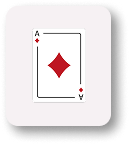
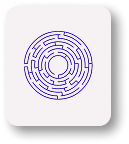
edit gaming theme

Changed region(s): [[0.186, 0.1944, 0.7442, 0.7222]]

diff --git a/src/style/themes/_codeVibe-theme.scss b/src/style/themes/_codeVibe-theme.scss
@@ -92,6 +92,16 @@
         }
     }
 
+    .card.matched::after {
+        content: "";
+        position: absolute;
+        inset: -4px;
+        border-radius: 5px;
+        border: 3px solid #4DD5BC;
+        box-shadow: 0 0 12px #4DD5BC;
+        animation: pulseMatch 0.6s ease-in-out;
+    }
+
     .card__face--back {
         background-image: url('../../../public/assets/img/Themes/codeVibes/CodeVibes_cardback.png');
         background-size: cover;
@@ -129,158 +139,6 @@
         }
     }
 }
-
-// .box {
-//     width: 100%;
-//     height: 100%;
-//     display: flex;
-//     justify-content: center;
-//     align-items: start;
-// }
-
-// .field {
-//     width: 100%;
-//     display: grid;
-//     place-content: center;
-//     gap: 12px;
-//     padding: 12px;
-//     justify-content: center;
-//     align-items: center;
-
-//     &.grid-16 {
-//         grid-template-columns: repeat(4, 1fr);
-//         width: 529px;
-//         height: 528px;
-//     }
-
-//     &.grid-24 {
-//         grid-template-columns: repeat(6, 1fr);
-//         width: 750px;
-//         height: 498px;
-//     }
-
-//     &.grid-32 {
-//         grid-template-columns: repeat(6, 1fr);
-//         width: 750px;
-//         height: 750px;
-//     }
-// }
-
-// .show {
-//     width: 687px;
-//     height: 100%;
-//     display: flex;
-//     align-items: center;
-//     justify-content: space-between;
-//     cursor: default;
-
-//     &__box {
-//         height: 100%;
-//         width: 100%;
-
-//         &--bg {
-//             background-color: #86E9D633;
-//             display: flex;
-//             justify-content: center;
-//             align-items: center;
-//             gap: 50px;
-//         }
-//     }
-
-//     &__card {
-//         display: flex;
-//         align-items: center;
-//         justify-content: center;
-//         gap: 8px;
-//         font-weight: 700;
-//         font-size: 24px;
-//         line-height: 100%;
-//         letter-spacing: 0%;
-
-//         &--blue {
-//             color: #2BB1FF;
-//         }
-
-//         &--orange {
-//             color: #F58E39;
-//         }
-
-//         img {
-//             height: 24px;
-//             width: 20px;
-//             object-fit: contain;
-//         }
-//     }
-
-//     &__current-player {
-//         display: flex;
-//         justify-content: end;
-//         align-items: end;
-//     }
-
-//     .current-player__box {
-//         display: flex;
-//         align-items: center;
-//         gap: 4px;
-
-//         & {
-//             font-size: 26px;
-//             line-height: 100%;
-//         }
-//     }
-// }
-
-// .blue-label {
-//     height: 24px;
-//     width: 29px;
-//     background-image: url('../../../public/assets/img/label_blue.png');
-//     background-repeat: no-repeat;
-//     background-size: cover;
-// }
-
-// .orange-label {
-//     height: 24px;
-//     width: 29px;
-//     background-image: url('../../../public/assets/img/label_orange.png');
-//     background-repeat: no-repeat;
-//     background-size: cover;
-// }
-
-// .exit_btn {
-//     background-image: url('./../../../public/assets/img/exit_btn.png');
-//     height: 62px;
-//     width: 207px;
-
-//     &:hover {
-//         background-image: url('./../../../public/assets/img/exit_btn-hover.png');
-//     }
-// }
-
-
-
-// .Overlay {
-//     position: absolute;
-//     top: 0;
-//     left: 0;
-//     height: 100%;
-//     width: 100%;
-//     background-color: rgba(0, 0, 0, 0.2);
-//     display: flex;
-//     align-items: center;
-//     justify-content: center;
-//     opacity: 0;
-//     pointer-events: none;
-
-//     &.open {
-//         @include mixin.fade-in;
-//         opacity: 1;
-//         pointer-events: all;
-//     }
-
-//     &.closing {
-//         @include mixin.fade-out;
-//     }
-// }
 
 // .PopUp {
 //     height: 270px;

diff --git a/src/style/themes/_gaming-theme.scss b/src/style/themes/_gaming-theme.scss
@@ -6,6 +6,123 @@
         padding: 40px 96px;
     }
 
+    header {
+        background-color: #FD96C933;
+        border-radius: 10px;
+        padding: 24px;
+        margin-bottom: 20px;
+    }
+
+    .playerdisplay__scoreboard {
+        padding: 0 16px;
+        background-color: #FFFFFF;
+        border-radius: 10px;
+        display: flex;
+        justify-content: space-between;
+        gap: 40px;
+
+        &--revers {
+            flex-direction: row-reverse;
+        }
+    }
+
+    .playerdisplay__player {
+        display: flex;
+        align-items: center;
+        width: max-content;
+        height: 38px;
+        gap: 8px;
+    }
+
+    .playerdisplay__icon--blue {
+        background-image: url('../../../public/assets/img/Themes/gaming/chess-blue.png');
+        height: 28px;
+        width: 22px;
+        background-size: cover;
+        background-repeat: no-repeat;
+    }
+
+    .playerdisplay__icon--orange {
+        background-image: url('../../../public/assets/img/Themes/gaming/chess-orange.png');
+        height: 28px;
+        width: 22px;
+        background-size: cover;
+        background-repeat: no-repeat;
+    }
+
+    .playerdisplay__number {
+        font-size: 30px;
+        font-weight: 700;
+        line-height: 100%;
+        font-family: 'Orbitron';
+    }
+
+    .currentplayer {
+        display: flex;
+        align-items: center;
+        gap: 18px;
+        height: 40px;
+
+        &__text {
+            font-size: 32px;
+            font-weight: 700;
+            line-height: 100%;
+            font-family: 'Orbitron';
+            letter-spacing: 7%;
+        }
+
+        .blue-label {
+            display: flex;
+            align-items: center;
+            justify-content: center;
+            height: 40px;
+            width: 41px;
+            background-color: #1FAAFC;
+            border-radius: 3px;
+        }
+
+        .orange-label {
+            display: flex;
+            align-items: center;
+            justify-content: center;
+            height: 40px;
+            width: 41px;
+            background-color: #F58E39;
+            border-radius: 3px;
+        }
+
+        .white-chess {
+            height: 32px;
+            width: 25px;
+            background-image: url('../../../public/assets/img/Themes/gaming/chess-white.png');
+            background-repeat: no-repeat;
+            background-size: cover;
+        }
+    }
+
+    .field {
+        gap: 0px;
+        padding: 0px;
+
+        &.grid-16 {
+            grid-template-columns: repeat(4, 1fr);
+            width: 468px;
+            height: 528px;
+        }
+
+        &.grid-24 {
+            grid-template-columns: repeat(6, 1fr);
+            width: 660px;
+            height: 498px;
+        }
+
+        &.grid-32 {
+            grid-template-columns: repeat(6, 1fr);
+            width: 660px;
+            height: 750px;
+        }
+    }
+
     .exit {
         background-image: url('../../../public/assets/img/Themes/Gaming/gaming-exit.png');
         height: 54px;
@@ -21,6 +138,22 @@
 
     .card {
         width: 105px;
+
+        img {
+            width: 105px;
+        }
+
+        &.matched::after {
+            content: "";
+            position: absolute;
+            height: 100px;
+            width: 88px;
+            inset: 1px;
+            border-radius: 12px;
+            border: 3px solid #ed1b76;
+            box-shadow: 0 0 12px #ed1b76;
+            animation: pulseMatch 0.6s ease-in-out;
+        }
     }
 
     .card__face--back {

diff --git a/src/style/components/_card.scss b/src/style/components/_card.scss
@@ -51,16 +51,6 @@ $breakpoints: (
         pointer-events: none;
         position: relative;
     }
-
-    &.matched::after {
-        content: "";
-        position: absolute;
-        inset: -4px;
-        border-radius: 12px;
-        border: 3px solid #7dd3fc; // hellblau
-        box-shadow: 0 0 12px #7dd3fc;
-        animation: pulseMatch 0.6s ease-in-out;
-    }
 }
 
 @keyframes pulseMatch {

diff --git a/src/templates/gameScreenTemplate.ts b/src/templates/gameScreenTemplate.ts
@@ -4,7 +4,7 @@ export function gameScreenTemplate() {
             <div class="container">
                 <header>
                     <div class="playerdisplay">
-                        <div class="playerdisplay__scoreboard">
+                        <div class="playerdisplay__scoreboard playerdisplay__scoreboard--revers">
                             <div class="playerdisplay__player">
                                 <span class="playerdisplay__icon--blue"></span>
                                 <span id="blueScore" class="playerdisplay__number"></span>
@@ -16,7 +16,9 @@ export function gameScreenTemplate() {
                         </div>
                         <div class="currentplayer">
                             <span class="currentplayer__text">Current player:</span>
-                            <span id="icon"></span>
+                            <span id="icon">
+                                <span class="white-chess"></span>
+                            </span>
                         </div>
                     </div>
                     <button>